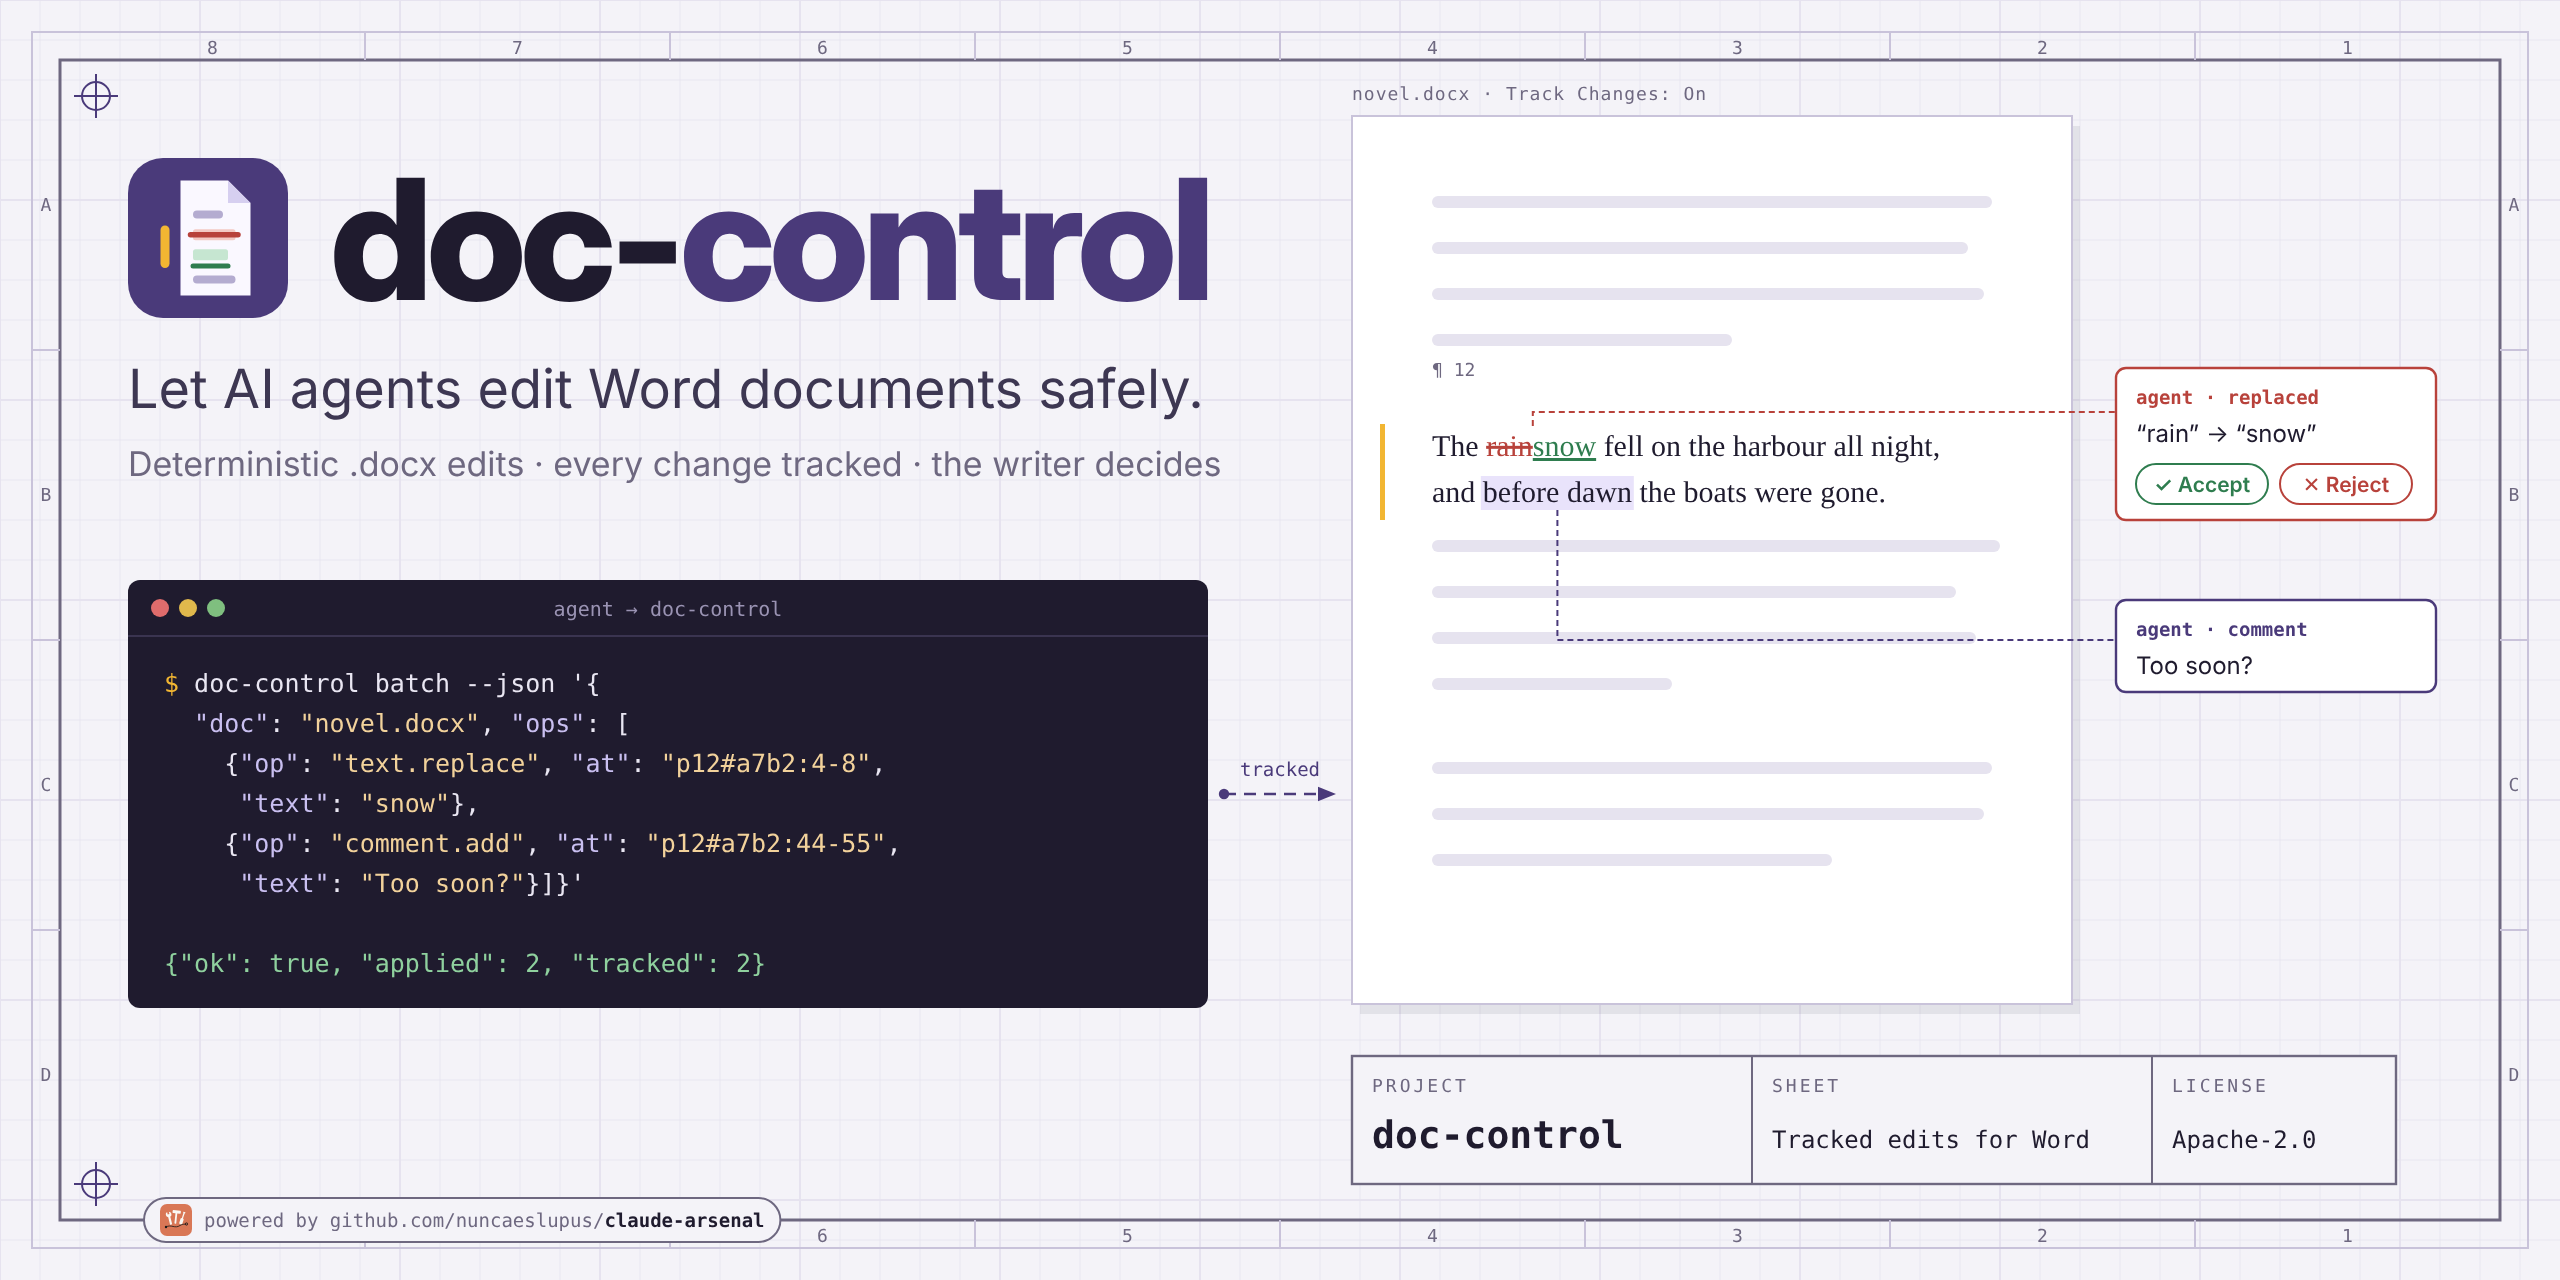
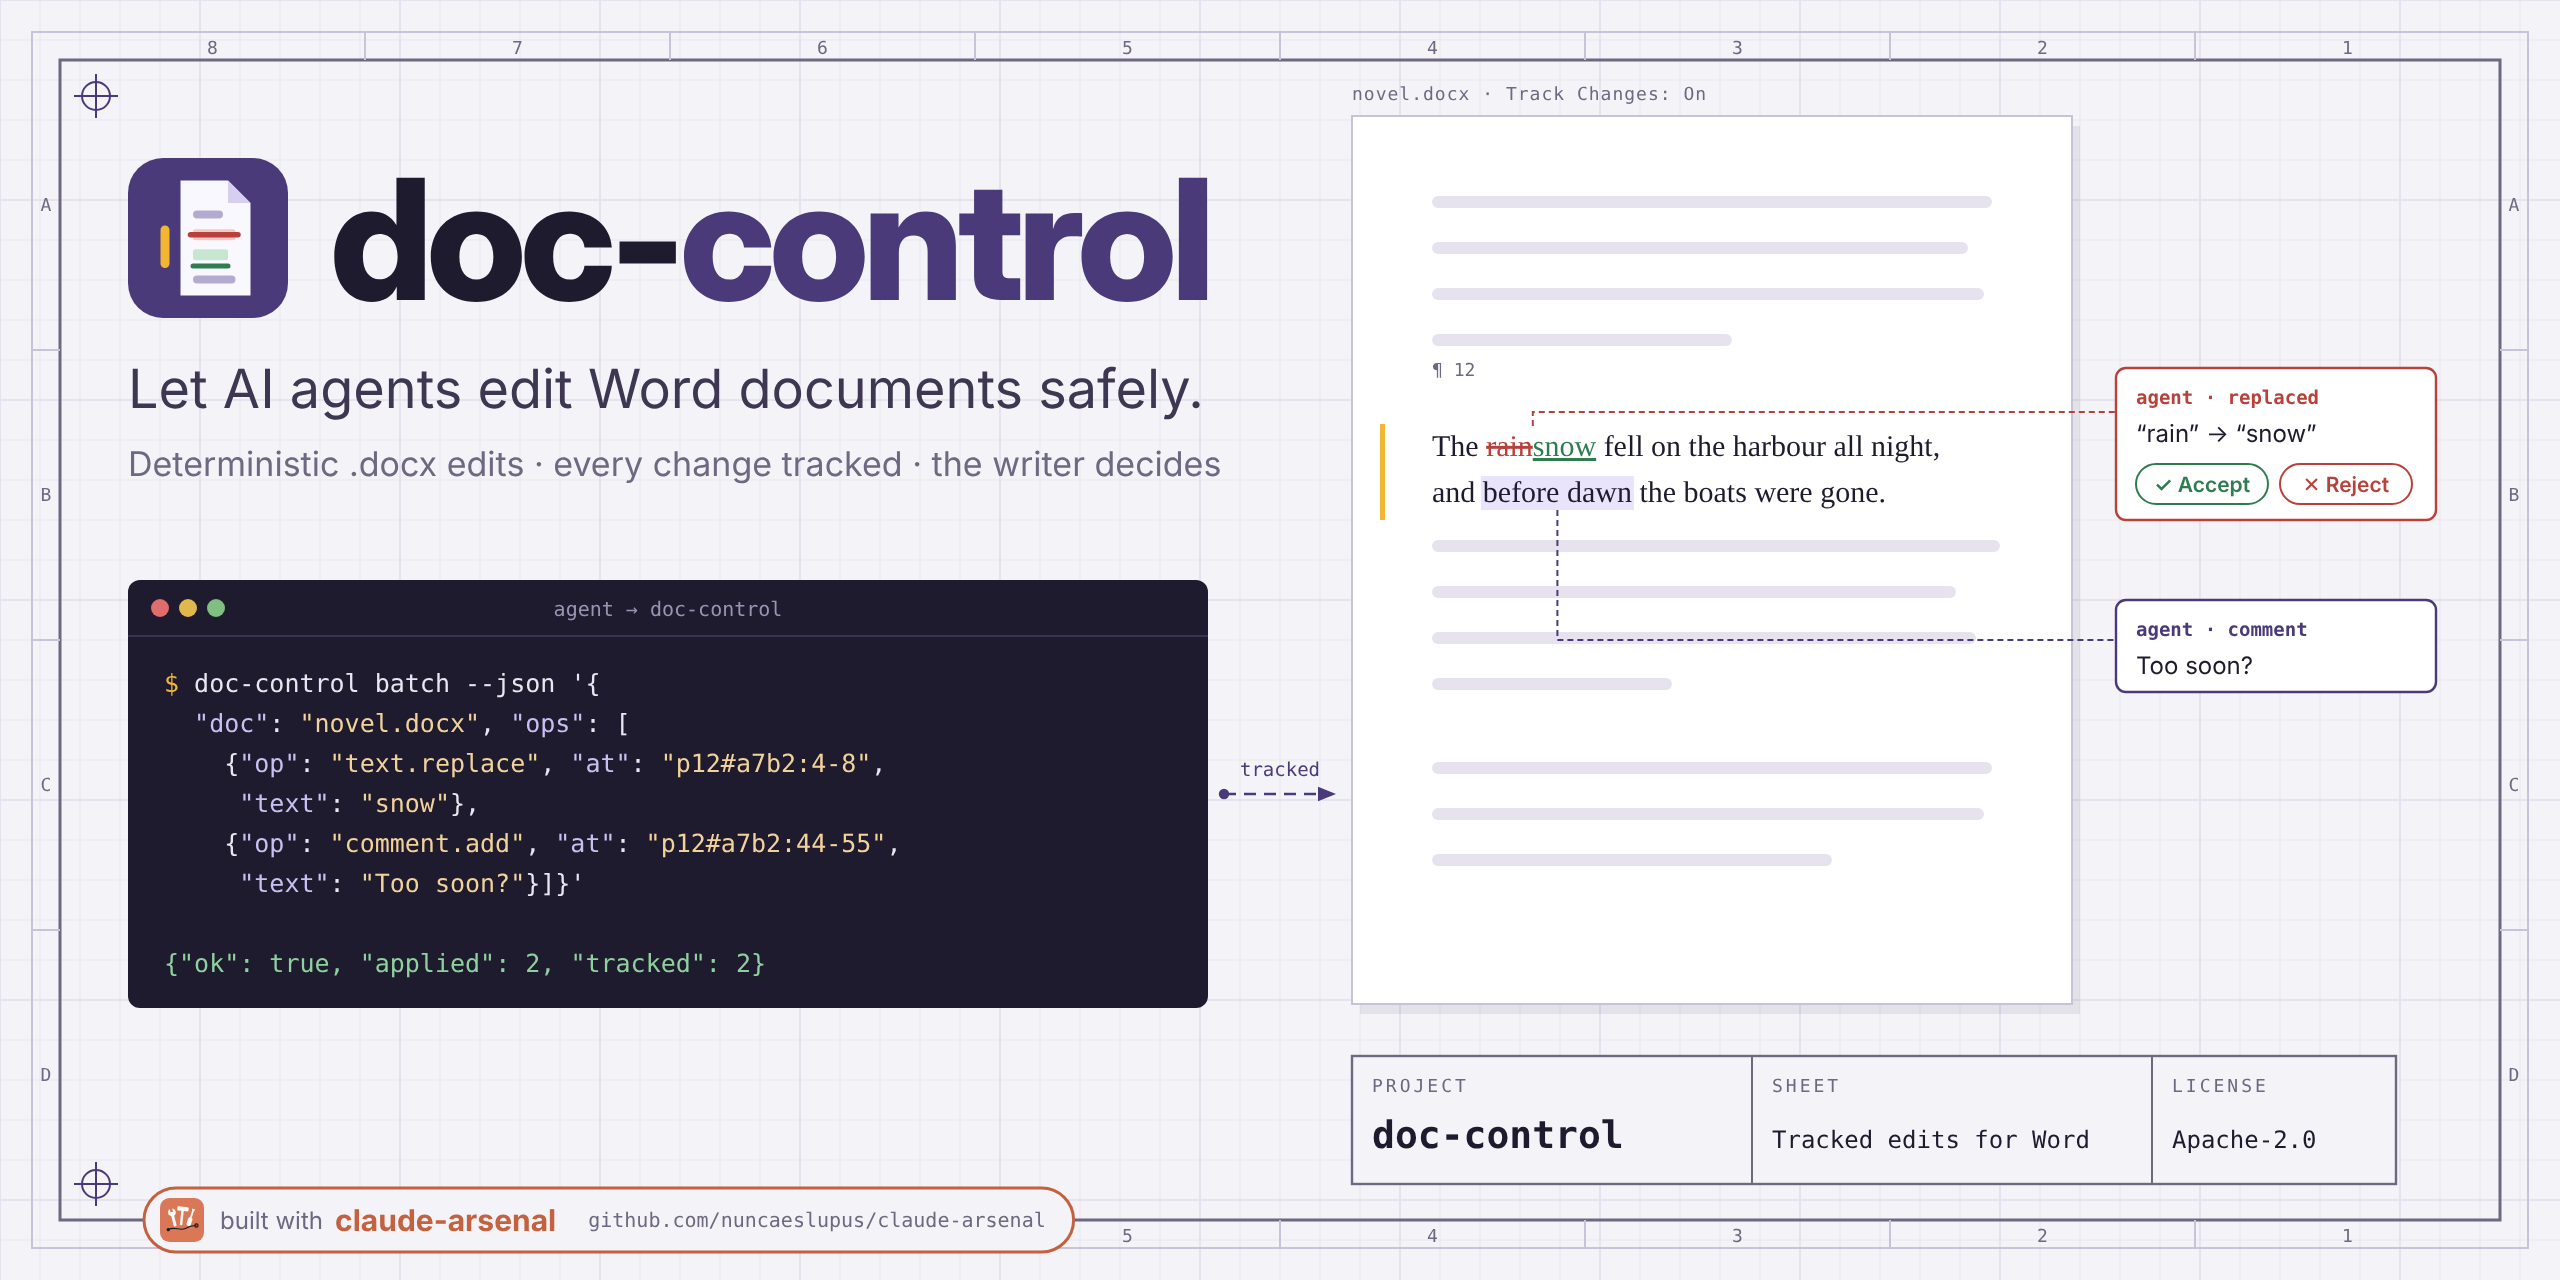
docs(hero): make the claude-arsenal stamp a prominent 'built with' badge
Claude-Session: https://claude.ai/code/session_01LCwNvQnUhGTW4nvYBmNboX

Changed region(s): [[0.0625, 0.9062, 0.4062, 1.0]]

diff --git a/tools/hero.py b/tools/hero.py
@@ -357,20 +357,38 @@ def title_block() -> list[str]:
     return out
 
 
+def width(s: str, size: float, face: str) -> float:
+    """Advance of `s` in an installed face (an fc-match pattern)."""
+    from PIL import ImageFont
+
+    path = subprocess.run(
+        ["fc-match", "-f", "%{file}", face], capture_output=True, text=True
+    ).stdout
+    return ImageFont.truetype(path, 100).getlength(s) * size / 100
+
+
+ARSENAL = "#c4623f"  # claude-arsenal's own orange
+
+
 def powered_by() -> list[str]:
-    """A "powered by" stamp for claude-arsenal, set on the frame's bottom edge."""
-    lead, name = "powered by github.com/nuncaeslupus/", "claude-arsenal"
-    size, tile, pad, gap = 9.5, 16, 8, 6
-    lead_w = len(lead) * size * MONO_EM
-    width = pad + tile + gap + lead_w + len(name) * size * MONO_EM + pad
+    """The claude-arsenal stamp, set on the frame's bottom edge: what this repo is built with."""
+    lead, name, url = "built with", "claude-arsenal", "github.com/nuncaeslupus/claude-arsenal"
+    tile, pad, gap = 22, 8, 8
+    lead_w = width(lead, 12, "Inter")
+    name_w = width(name, 15, "Inter:weight=700")
+    url_w = len(url) * 10 * MONO_EM
+    total = pad + tile + gap + lead_w + 6 + name_w + 12 + url_w + pad + 6
     x, cy = 72, H - 30
     tx = x + pad + tile + gap
     return [
-        f'<rect x="{x}" y="{cy - 11}" width="{width:.1f}" height="22" rx="11" '
-        f'fill="{GROUND}" stroke="{DIM}"/>',
+        f'<rect x="{x}" y="{cy - 16}" width="{total:.1f}" height="32" rx="16" '
+        f'fill="{GROUND}" stroke="{ARSENAL}" stroke-width="1.5"/>',
         nested(ROOT / "docs" / "claude-arsenal-logo.svg", x + pad, cy - tile / 2, tile),
-        text(tx, cy + 3.4, lead, size=size, fill=DIM, family=MONO),
-        text(round(tx + lead_w, 1), cy + 3.4, name, size=size, family=MONO, weight=700),
+        text(tx, cy + 4.3, lead, size=12, fill=DIM),
+        text(round(tx + lead_w + 6, 1), cy + 5.3, name, size=15, fill=ARSENAL, weight=700),
+        text(
+            round(tx + lead_w + 6 + name_w + 12, 1), cy + 3.6, url, size=10, fill=DIM, family=MONO
+        ),
     ]
 
 
